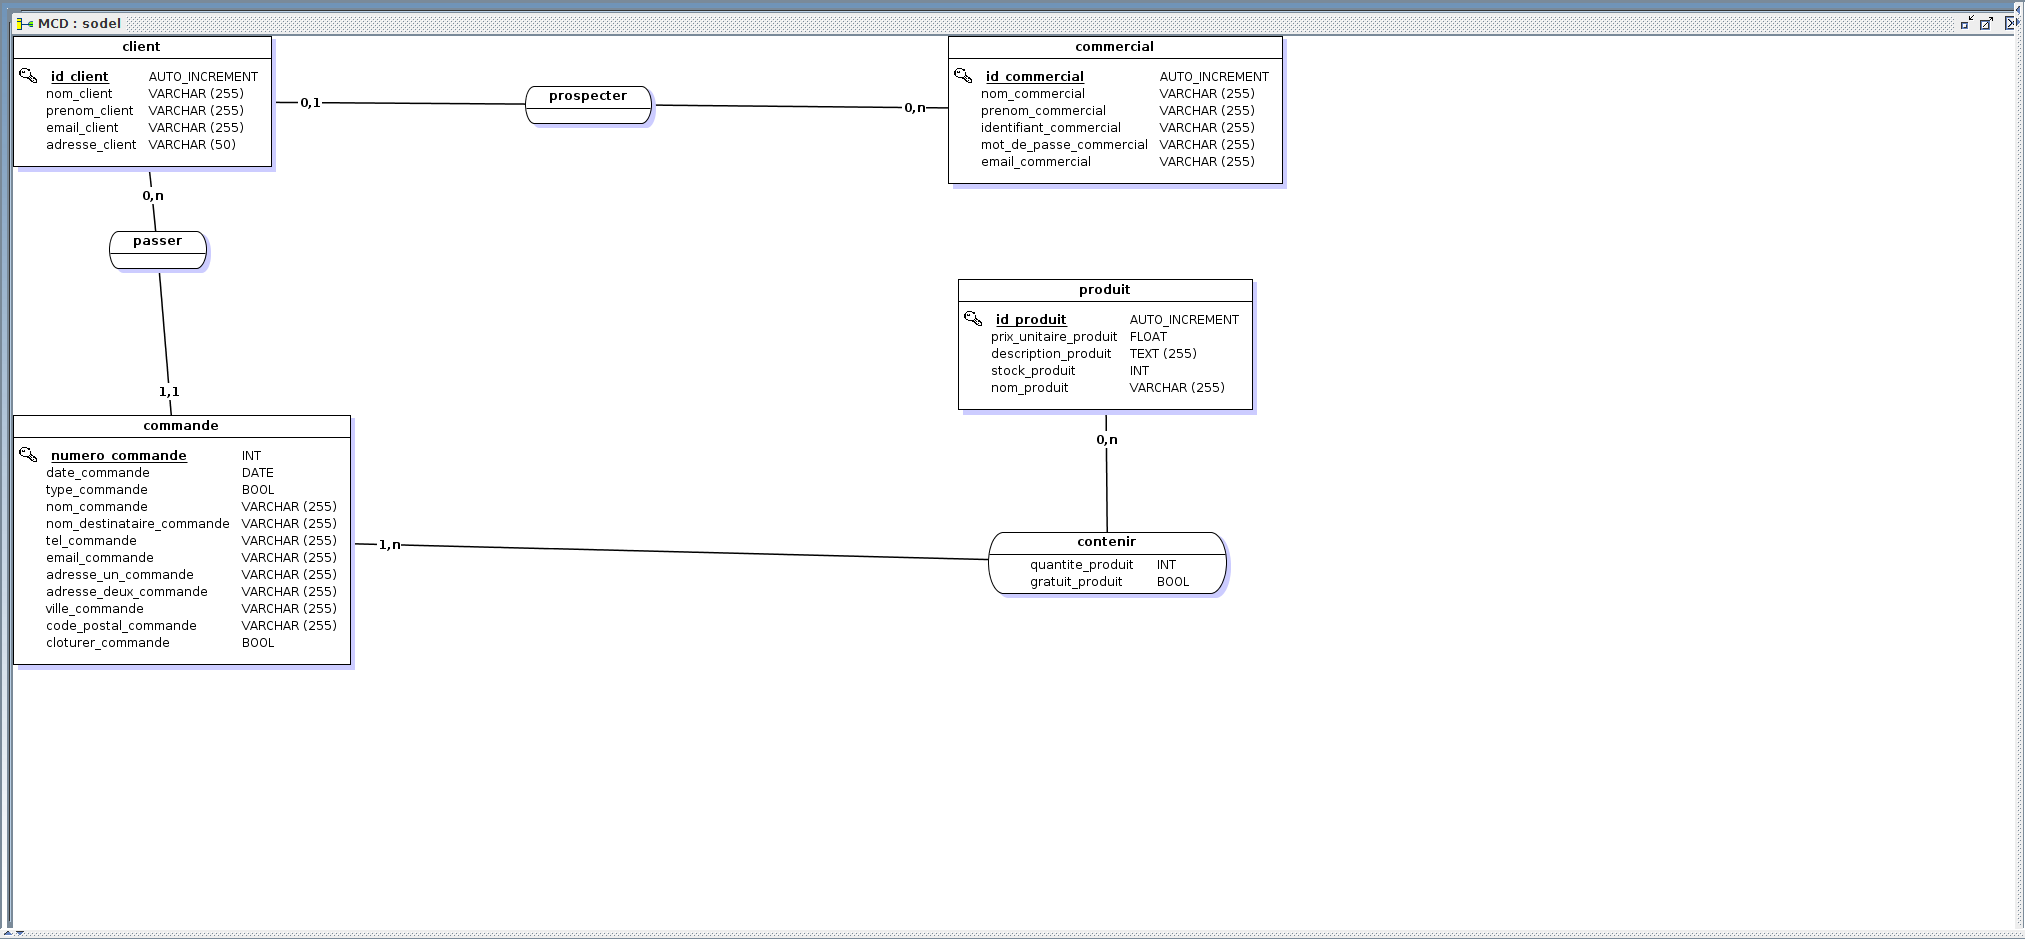
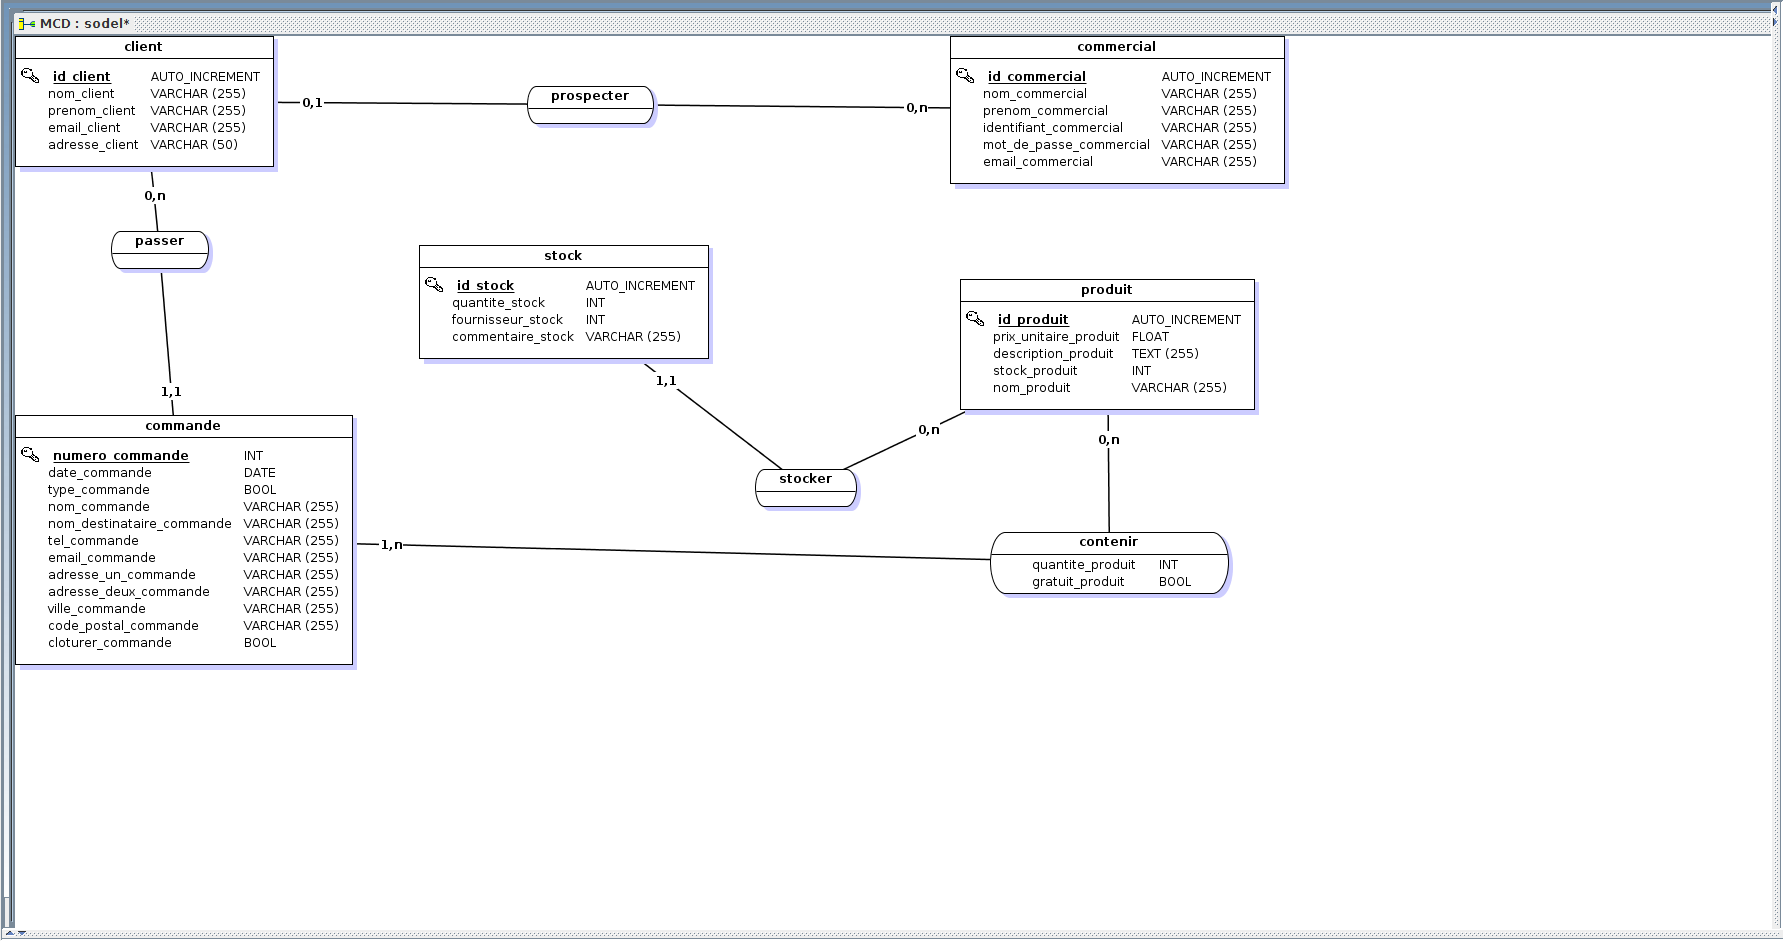
maj mcd, mld, api's working

diff --git a/saisieDeCommandes/public/js/function.js b/saisieDeCommandes/public/js/function.js
@@ -1,3 +1,5 @@
+var produits = [];
+var stocks = [];
 function obtenirCommandeClient(id)
 {
     console.log("je mexecute")
@@ -46,17 +48,145 @@ function genererTableauCommande(commandes)
         {
             type = "Commande";
         }
+
         $("#corpsTableauCommande").append(
             "<tr>" + 
-                "<td>" + commandes[i].numero_commande + "</td>" + 
-                "<td>" + commandes[i].nom_commande + "</td>" + 
-                "<td>" + type + "</td>" + 
-                "<td>" + commandes[i].date_commande + "</td>" + 
-                "<td>" + cloturer + "</td>" + 
-                "<td><button class='modifier' id='modifier" + commandes[i].id_commande + "'><img src='images/crayon.png' alt='modifier'></button>" + 
-                "<button class='supprimer' id='supprimer" + commandes[i].id_commande + "'><img src='images/corbeille.png' alt='supprimer'></button></td>"  +  
+                "<td><form method='post'><input name='id_commande' class='invisible id_commande' value='" + commandes[i].id_commande + "'><button name='envoyer_id_commande' class='ligneTableauCommandes' id='afficherCetteCommande' type='submit'>" + commandes[i].numero_commande + "</button></form></td>" + 
+                "<td><div class='ligneTableauCommandes'>" + commandes[i].nom_commande + "</div></td>" + 
+                "<td><div class='ligneTableauCommandes'>" + type + "</div></td>" + 
+                "<td><div class='ligneTableauCommandes'>" + commandes[i].date_commande + "</div></td>" + 
+                "<td><div class='ligneTableauCommandes'>" + cloturer + "</div></td>" + 
+                "<td class='ligneTableauCommandes'><button class='modifier' id='modifier" + commandes[i].id_commande + "'><img src='images/crayon.png' alt='modifier'></button>" + 
+                "<button class='supprimer' id='supprimer" + commandes[i].id_commande + "'><img src='images/corbeille.png' alt='supprimer'></button></td>"  + 
             "</tr>"
         );
     }
 }
 
+function obtenirDetailCommande(id)
+{
+    $.ajax({
+        url : '/produitsDeCommande/' + id,
+        type : 'POST',
+        contentType : "json",
+        statusCode : 
+        {
+            404:function()
+            {
+                alert("Commande introuvable");
+            }
+        },
+        headers: {
+            'X-CSRF-TOKEN': $('meta[name="csrf-token"]').attr('content')
+        }
+    }).done(function(detailCommande)
+    {
+        console.log(detailCommande);
+        for(var i = 0; i < detailCommande.length; i++)
+        {
+            recupererProduit(detailCommande[i].id_produit, detailCommande);
+        }
+    });
+}
+
+function recupererProduit(idProduit, contenir)
+{
+    $.ajax({
+        url : '/produit/' + idProduit,
+        type : 'POST',
+        contentType : "json",
+        statusCode : 
+        {
+            404:function()
+            {
+                alert("Produit introuvable");
+            }
+        },
+        headers: {
+            'X-CSRF-TOKEN': $('meta[name="csrf-token"]').attr('content')
+        }
+    }).done(function(produit)
+    {
+        var tabTemp = [];
+        tabTemp.push(produit[0].id_produit);
+        tabTemp.push(produit[0].reference_produit);
+        tabTemp.push(produit[0].nom_produit);
+        tabTemp.push(produit[0].prix_unitaire_produit);
+        produits.push(tabTemp);
+        console.log(produits);
+        console.log(contenir); 
+        if(produits.length == contenir.length)
+        {
+            for(var i = 0; i < produits.length; i++)
+            {
+                recupererStock(produits[i][0], produits, contenir);        
+            }
+        }        
+    });
+}
+
+function recupererStock(id_produit, produit, contenir)
+{
+    $.ajax({
+        url : '/stock/' + id_produit,
+        type : 'POST',
+        contentType : "json",
+        statusCode : 
+        {
+            404:function()
+            {
+                alert("Produit introuvable");
+            }
+        },
+        headers: {
+            'X-CSRF-TOKEN': $('meta[name="csrf-token"]').attr('content')
+        }
+    }).done(function(stock)
+    {
+        console.log("je vais récuperer le stock du produit " + id_produit);
+        var temp = [];
+        temp.push(stock[0].quantite_stock);
+        temp.push(stock[0].fournisseur_stock);
+        temp.push(stock[0].commentaire_stock);
+        stocks.push(temp);
+        console.log(produit);
+        console.log(contenir);
+        console.log(stocks);
+        genererTableauDetailCommande(produit, stocks, contenir);
+    });
+}
+
+function genererTableauDetailCommande(produit, stock, contenir)
+{
+    var commentaire_stock;
+    for(var i = 0; i < produit.length; i++)
+    {
+        if(stock[i][2] == null)
+        {
+            commentaire_stock = "";
+        }
+        else
+        {
+            commentaire_stock = stock[i][2];
+        }
+
+        $("#tableauDetailCommande").append(
+            "<tr>"+
+                "<td>" + produit[i][1] + "</td>" +
+                "<td>" + produit[i][2] + "</td>" +
+                "<td>" + contenir[i].quantite_produit + "</td>" +
+                "<td>" + produit[i][3] + "</td>" +
+                "<td>" + stock[i][0] + "(" + stock[i][1] + ")" + commentaire_stock + "</td>" +
+                "<td>" + produit[i][1] + "</td>" +
+                "<td>" + produit[i][1] + "</td>" +
+                "<td>" + produit[i][1] + "</td>" +
+
+        )
+    }
+
+
+
+
+
+    $('#tableauDetailCommande').DataTable();
+}

diff --git a/saisieDeCommandes/public/css/style.css b/saisieDeCommandes/public/css/style.css
@@ -77,8 +77,25 @@ label
     max-height:50px;    
 }
 
-.supprimer, .modifier
+.supprimer, .modifier, #afficherCetteCommande
 {
     border:none;
     background-color: white;
+}
+
+.invisible
+{
+    display:none;
+}
+
+#afficherCetteCommande
+{
+    width:100%;
+}
+
+.ligneTableauCommandes
+{
+    margin-top: 5%;
+    padding-bottom: 5%;
+    padding-top:5%; 
 }

diff --git a/saisieDeCommandes/public/js/event.js b/saisieDeCommandes/public/js/event.js
@@ -1,4 +1,4 @@
-obtenirCommandeClient(1);
+//obtenirCommandeClient(1);
 
-
+obtenirDetailCommande(1);
 

diff --git a/saisieDeCommandes/resources/views/tableauDetailCommande.blade.php b/saisieDeCommandes/resources/views/tableauDetailCommande.blade.php
@@ -2,6 +2,7 @@
 <html lang="fr">
     <head>
         <meta charset="utf-8">
+        <meta name="csrf-token" content="{{ csrf_token() }}">
         <title>tableau commandes</title>
         <link rel="stylesheet" type="text/css" href="../node_modules/bootstrap/dist/css/bootstrap.min.css">
         <link rel="stylesheet" type="text/css" href="../css/style.css">
@@ -11,7 +12,7 @@
         <div class="container-fluid">
             <div id="ligneOptions" class="row">
                 <div class="offset-md-1 col-md-2">
-                    <button class="btn btn-danger">Retour aux commandes</button>
+                    <a href="{{ url()->previous() }}" class="btn btn-danger">Retour aux commandes</a>
                 </div>
                 <div class="col-md-2">
                     <button class="btn btn-success" data-toggle="modal" data-target=".bd-example-modal-lg">Ajouter un produit</button>
@@ -38,7 +39,7 @@
         <div id="totalCommande">Total :</div>
 
         <!-- Formulaire d'ajout d'un produit pour une commande 
-        Le formulaire est affiché dans une modale crée avec bootstrap -->
+        Le formulaire est affiché dans une modale créee avec bootstrap -->
 
         <div class="modal fade bd-example-modal-lg" tabindex="-1" role="dialog" aria-labelledby="myLargeModalLabel" aria-hidden="true">
             <div class="modal-dialog modal-lg">
@@ -46,7 +47,7 @@
                     <div class="modal-header">
                         <h2>Ajouter un produit</h2>
                         <button type="button" class="close" data-dismiss="modal" aria-label="Close">
-                            <img src="../images/shutdown.png" alt="fermer" id="fermerModale">
+                            <img src="../images/fermer.png" alt="fermer" id="fermerModale">
                         </button>
                     </div>
                     <div class="modal-body">
@@ -81,5 +82,8 @@
         <script type="text/javascript" src="../node_modules/jquery/dist/jquery.min.js"></script>
         <script type="text/javascript" src="../node_modules/popper.js/dist/umd/popper.min.js"></script>
         <script type="text/javascript" src="../node_modules/bootstrap/dist/js/bootstrap.min.js"></script>
+        <script type="text/javascript" src="../js/dataTables.min.js"></script>
+        <script type="text/javascript" src="../js/function.js"></script>
+        <script type="text/javascript" src="../js/event.js"></script>
     </body>
 </html>

diff --git a/saisieDeCommandes/routes/web.php b/saisieDeCommandes/routes/web.php
@@ -1,13 +1,18 @@
 <?php
 
-Route::get('/', function()
-{
-    return view("tableauCommande");
-});
+Route::get('/', 'tableauCommande@afficherTableauCommandes');
 
-Route::get('/tableauCommande', 'tableauDetailCommande@afficherDetailCommande');
+Route::post('/', 'tableauCommande@redirectionDetailCommande');
 
+Route::get('/tableauCommande/{id}', 'tableauDetailCommande@afficherDetailCommande');
 //API
-Route::get('/commande/{id}', 'tableauCommande@obtenirCommande');
+Route::post('/commande/{id}', 'tableauCommande@obtenirCommande');
 
 Route::post('commandeClient/{id}', 'tableauCommande@obtenirCommandesClient');
+
+//cette route retourne les produits d'une commande spécifié grâce au parametre {id}
+Route::post('produitsDeCommande/{id}', 'tableauDetailCommande@obtenirProduixCommande');
+
+Route::post('produit/{id}', 'tableauDetailCommande@obtenirProduit');
+
+Route::get('stock/{id}', 'tableauDetailCommande@obtenirStockProduit');

diff --git a/saisieDeCommandes/app/Http/Controllers/tableauDetailCommande.php b/saisieDeCommandes/app/Http/Controllers/tableauDetailCommande.php
@@ -2,6 +2,10 @@
 
 namespace App\Http\Controllers;
 
+use App\Contenir;
+use App\Produit;
+use App\Stock;
+
 use Illuminate\Http\Request;
 
 class tableauDetailCommande extends Controller
@@ -9,5 +13,23 @@ class tableauDetailCommande extends Controller
     public function afficherDetailCommande($id)
     {
         return view('tableauDetailCommande', ["idCommande" => $id]);
+    }
+
+    public function obtenirProduixCommande($id_commande)
+    {
+        $listeProduits = Contenir::where('id_commande', $id_commande)->get();
+        return $listeProduits;
+    }
+
+    public function obtenirProduit($id_produit)
+    {
+        $produit = Produit::where("id_produit", $id_produit)->get();
+        return $produit;
+    }
+
+    public function obtenirStockProduit($id_produit)
+    {
+        $stock = Stock::where("id_produit", $id_produit)->get();
+        return $stock;
     }
 }

diff --git a/saisieDeCommandes/app/Http/Controllers/tableauCommande.php b/saisieDeCommandes/app/Http/Controllers/tableauCommande.php
@@ -3,6 +3,7 @@
 namespace App\Http\Controllers;
 
 use App\Commande;
+
 use Illuminate\Http\Request;
 
 class tableauCommande extends Controller
@@ -19,5 +20,20 @@ class tableauCommande extends Controller
         $commandes = Commande::where('id_client', $id_client)->get();
 
         return $commandes;
+    }
+
+    public function afficherTableauCommandes()
+    {
+        return view("tableauCommande");
+    }
+
+    public function redirectionDetailCommande(Request $request)
+    {
+        if(isset($_POST['envoyer_id_commande']))
+        {
+            $id_commande = $request->input('id_commande');
+            echo $id_commande;
+        }
+        //return redirect('/tableauCommande' . $id_commande);
     }
 }

diff --git a/saisieDeCommandes/resources/views/tableauCommande.blade.php b/saisieDeCommandes/resources/views/tableauCommande.blade.php
@@ -19,6 +19,9 @@
             </div>
         </div>     
 
+        <div id="monFormulaire">
+           
+        </div>
         <table id="tableauCommande" class="table">
             <thead>
                 <tr>

diff --git a/saisieDeCommandes/app/Contenir.php b/saisieDeCommandes/app/Contenir.php
@@ -1,0 +1,10 @@
+<?php
+
+namespace App;
+
+use Illuminate\Database\Eloquent\Model;
+
+class Contenir extends Model
+{
+    protected $table = 'contenir';
+}

diff --git a/saisieDeCommandes/app/Produit.php b/saisieDeCommandes/app/Produit.php
@@ -1,0 +1,10 @@
+<?php
+
+namespace App;
+
+use Illuminate\Database\Eloquent\Model;
+
+class Produit extends Model
+{
+    //
+}

diff --git a/saisieDeCommandes/app/Stock.php b/saisieDeCommandes/app/Stock.php
@@ -1,0 +1,10 @@
+<?php
+
+namespace App;
+
+use Illuminate\Database\Eloquent\Model;
+
+class Stock extends Model
+{
+    //
+}
